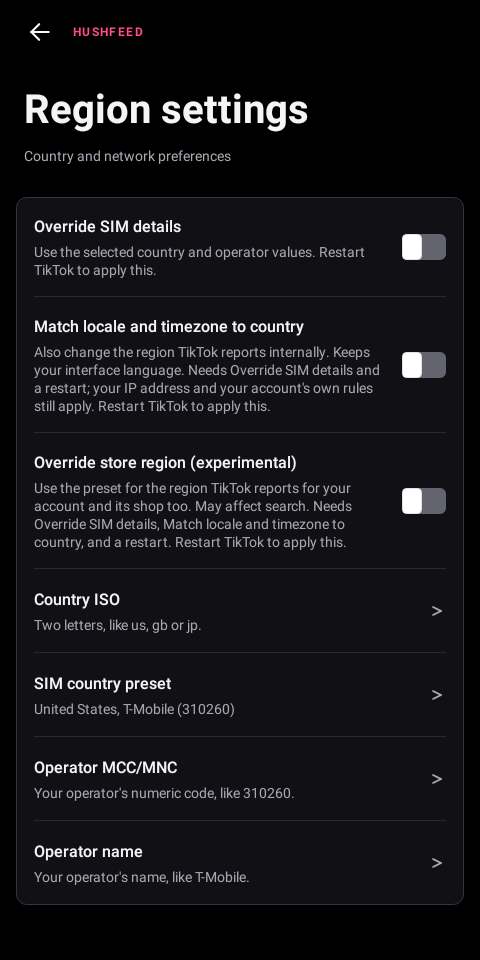
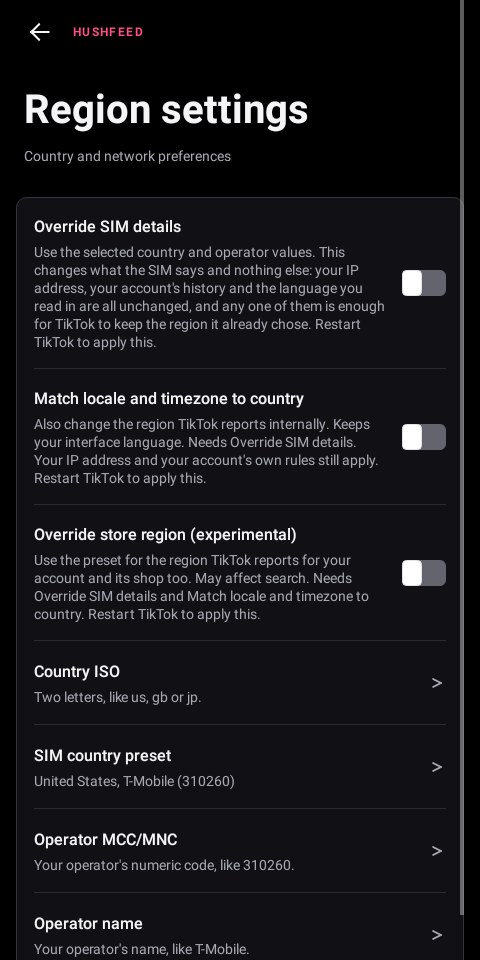
fix(l10n): stop the Region rows asking for a restart twice
The note is appended to any restart-gated summary that does not already ask for
one, and the check was the literal "Restart TikTok". Both Region rows say "and a
restart" in their own words, so the check missed them and the sentence landed a
second time, in all five languages: the join happens after the summary is
translated, so no table could have caught it.

Two changes, because either alone leaves half of it standing. The check now
matches the word rather than one spelling of the sentence, so a summary that
asks in any wording is left alone. And the two summaries drop "and a restart",
so the one canonical sentence carries it and the rows read as every other row
does. The four translations are rewritten with them.

RestartGatedRowsTest already walked every page for rows that say nothing; it now
walks the same rows for ones that say it twice. Its "says so" half reads the
word out of the summary itself rather than asking the production predicate,
which would have passed for a predicate that always answered yes. Putting the
narrow check and the old summaries back fails both new cases.

diff --git a/extensions/tiktok/src/main/java/app/morphe/extension/tiktok/settings/L10nTranslations.java b/extensions/tiktok/src/main/java/app/morphe/extension/tiktok/settings/L10nTranslations.java
@@ -229,8 +229,8 @@ public final class L10nTranslations {
                 "Bereits als „nicht interessiert“ markiert");
         table.put("Also apply these filters to downloaded videos TikTok uses when the feed cannot load enough new items.",
                 "Diese Filter auch auf heruntergeladene Videos anwenden, die TikTok nutzt, wenn der Feed nicht genug neue Beiträge laden kann.");
-        table.put("Also change the region TikTok reports internally. Keeps your interface language. Needs Override SIM details and a restart; your IP address and your account's own rules still apply.",
-                "Ändert außerdem die Region, die TikTok intern meldet. Die Sprache der Oberfläche bleibt. Braucht SIM-Angaben überschreiben und einen Neustart; deine IP-Adresse und die Regeln deines Kontos gelten weiterhin.");
+        table.put("Also change the region TikTok reports internally. Keeps your interface language. Needs Override SIM details. Your IP address and your account's own rules still apply.",
+                "Ändert außerdem die Region, die TikTok intern meldet. Die Sprache der Oberfläche bleibt. Braucht SIM-Angaben überschreiben. Deine IP-Adresse und die Regeln deines Kontos gelten weiterhin.");
         table.put("Always show publish date",
                 "Veröffentlichungsdatum immer anzeigen");
         table.put("Always show the publish date in video author information. Restart TikTok to apply this.",
@@ -1971,8 +1971,8 @@ public final class L10nTranslations {
                 "Standardgeschwindigkeit verwenden");
         table.put("Use non-personalized search",
                 "Nicht personalisierte Suche verwenden");
-        table.put("Use the preset for the region TikTok reports for your account and its shop too. May affect search. Needs Override SIM details, Match locale and timezone to country, and a restart.",
-                "Die Vorlage auch für die Region verwenden, die TikTok für dein Konto und seinen Shop meldet. Kann die Suche beeinflussen. Braucht SIM-Details überschreiben, Sprache und Zeitzone ans Land anpassen und einen Neustart.");
+        table.put("Use the preset for the region TikTok reports for your account and its shop too. May affect search. Needs Override SIM details and Match locale and timezone to country.",
+                "Die Vorlage auch für die Region verwenden, die TikTok für dein Konto und seinen Shop meldet. Kann die Suche beeinflussen. Braucht SIM-Details überschreiben und Sprache und Zeitzone ans Land anpassen.");
         table.put("Use the selected country and operator values. This changes what the SIM says and nothing else: your IP address, your account's history and the language you read in are all unchanged, and any one of them is enough for TikTok to keep the region it already chose. Restart TikTok to apply this.",
                 "Das gewählte Land und die Anbieterwerte verwenden. Das ändert nur, was die SIM meldet: deine IP-Adresse, der Verlauf deines Kontos und die Sprache, in der du liest, bleiben gleich, und eines davon reicht TikTok schon, um bei der bisherigen Region zu bleiben. TikTok neu starten, damit das gilt.");
         table.put("Use the selected country. This changes what the SIM says and nothing else: your IP address, your account's history and the language you read in are all unchanged, and any one of them is enough for TikTok to keep the region it already chose. Restart TikTok to apply this.",
@@ -2280,8 +2280,8 @@ public final class L10nTranslations {
                 "Ya marcado como no me interesa");
         table.put("Also apply these filters to downloaded videos TikTok uses when the feed cannot load enough new items.",
                 "Aplicar también estos filtros a los vídeos descargados que TikTok usa cuando el feed no consigue cargar suficientes elementos nuevos.");
-        table.put("Also change the region TikTok reports internally. Keeps your interface language. Needs Override SIM details and a restart; your IP address and your account's own rules still apply.",
-                "Cambia también la región que TikTok informa internamente. Mantiene el idioma de la interfaz. Necesita Sustituir los datos de la SIM y reiniciar; tu dirección IP y las reglas de tu cuenta siguen aplicándose.");
+        table.put("Also change the region TikTok reports internally. Keeps your interface language. Needs Override SIM details. Your IP address and your account's own rules still apply.",
+                "Cambia también la región que TikTok informa internamente. Mantiene el idioma de la interfaz. Necesita Sustituir los datos de la SIM. Tu dirección IP y las reglas de tu cuenta siguen aplicándose.");
         table.put("Always show publish date",
                 "Mostrar siempre la fecha de publicación");
         table.put("Always show the publish date in video author information. Restart TikTok to apply this.",
@@ -4022,8 +4022,8 @@ public final class L10nTranslations {
                 "Usar una velocidad de reproducción predeterminada");
         table.put("Use non-personalized search",
                 "Usar la búsqueda sin personalizar");
-        table.put("Use the preset for the region TikTok reports for your account and its shop too. May affect search. Needs Override SIM details, Match locale and timezone to country, and a restart.",
-                "Usar el preajuste también para la región que TikTok informa de tu cuenta y su tienda. Puede afectar a la búsqueda. Necesita Sustituir los datos de la SIM, Ajustar idioma y zona horaria al país, y un reinicio.");
+        table.put("Use the preset for the region TikTok reports for your account and its shop too. May affect search. Needs Override SIM details and Match locale and timezone to country.",
+                "Usar el preajuste también para la región que TikTok informa de tu cuenta y su tienda. Puede afectar a la búsqueda. Necesita Sustituir los datos de la SIM y Ajustar idioma y zona horaria al país.");
         table.put("Use the selected country and operator values. This changes what the SIM says and nothing else: your IP address, your account's history and the language you read in are all unchanged, and any one of them is enough for TikTok to keep the region it already chose. Restart TikTok to apply this.",
                 "Usar el país y los valores de operador seleccionados. Esto solo cambia lo que dice la SIM: tu dirección IP, el historial de tu cuenta y el idioma en el que lees siguen igual, y con cualquiera de ellos le basta a TikTok para mantener la región que ya eligió. Reinicia TikTok para que se aplique.");
         table.put("Use the selected country. This changes what the SIM says and nothing else: your IP address, your account's history and the language you read in are all unchanged, and any one of them is enough for TikTok to keep the region it already chose. Restart TikTok to apply this.",
@@ -4331,8 +4331,8 @@ public final class L10nTranslations {
                 "Sudah ditandai sebagai tidak tertarik");
         table.put("Also apply these filters to downloaded videos TikTok uses when the feed cannot load enough new items.",
                 "Terapkan filter ini juga ke video terunduh yang TikTok pakai saat feed tidak bisa memuat cukup konten baru.");
-        table.put("Also change the region TikTok reports internally. Keeps your interface language. Needs Override SIM details and a restart; your IP address and your account's own rules still apply.",
-                "Juga mengubah wilayah yang dilaporkan TikTok secara internal. Bahasa antarmuka tetap. Perlu Timpa detail SIM dan mulai ulang; alamat IP dan aturan akun Anda tetap berlaku.");
+        table.put("Also change the region TikTok reports internally. Keeps your interface language. Needs Override SIM details. Your IP address and your account's own rules still apply.",
+                "Juga mengubah wilayah yang dilaporkan TikTok secara internal. Bahasa antarmuka tetap. Perlu Timpa detail SIM. Alamat IP dan aturan akun Anda tetap berlaku.");
         table.put("Always show publish date",
                 "Selalu tampilkan tanggal unggah");
         table.put("Always show the publish date in video author information. Restart TikTok to apply this.",
@@ -6073,8 +6073,8 @@ public final class L10nTranslations {
                 "Pakai kecepatan pemutaran bawaan");
         table.put("Use non-personalized search",
                 "Pakai pencarian nonpersonal");
-        table.put("Use the preset for the region TikTok reports for your account and its shop too. May affect search. Needs Override SIM details, Match locale and timezone to country, and a restart.",
-                "Gunakan preset juga untuk wilayah yang dilaporkan TikTok untuk akun Anda dan tokonya. Bisa memengaruhi pencarian. Perlu Ganti detail SIM, Sesuaikan bahasa dan zona waktu dengan negara, dan mulai ulang.");
+        table.put("Use the preset for the region TikTok reports for your account and its shop too. May affect search. Needs Override SIM details and Match locale and timezone to country.",
+                "Gunakan preset juga untuk wilayah yang dilaporkan TikTok untuk akun Anda dan tokonya. Bisa memengaruhi pencarian. Perlu Ganti detail SIM dan Sesuaikan bahasa dan zona waktu dengan negara.");
         table.put("Use the selected country and operator values. This changes what the SIM says and nothing else: your IP address, your account's history and the language you read in are all unchanged, and any one of them is enough for TikTok to keep the region it already chose. Restart TikTok to apply this.",
                 "Gunakan negara dan nilai operator yang dipilih. Ini hanya mengubah apa yang dilaporkan SIM: alamat IP, riwayat akun, dan bahasa yang kamu baca tetap sama, dan salah satunya saja sudah cukup bagi TikTok untuk mempertahankan wilayah yang sudah dipilihnya. Mulai ulang TikTok agar berlaku.");
         table.put("Use the selected country. This changes what the SIM says and nothing else: your IP address, your account's history and the language you read in are all unchanged, and any one of them is enough for TikTok to keep the region it already chose. Restart TikTok to apply this.",
@@ -6382,8 +6382,8 @@ public final class L10nTranslations {
                 "Já marcado como não tenho interesse");
         table.put("Also apply these filters to downloaded videos TikTok uses when the feed cannot load enough new items.",
                 "Aplicar esses filtros também aos vídeos baixados que o TikTok usa quando o feed não consegue carregar itens novos suficientes.");
-        table.put("Also change the region TikTok reports internally. Keeps your interface language. Needs Override SIM details and a restart; your IP address and your account's own rules still apply.",
-                "Também muda a região que o TikTok informa internamente. Mantém o idioma da interface. Precisa de Substituir os dados do SIM e de reiniciar; seu endereço IP e as regras da sua conta continuam valendo.");
+        table.put("Also change the region TikTok reports internally. Keeps your interface language. Needs Override SIM details. Your IP address and your account's own rules still apply.",
+                "Também muda a região que o TikTok informa internamente. Mantém o idioma da interface. Precisa de Substituir os dados do SIM. Seu endereço IP e as regras da sua conta continuam valendo.");
         table.put("Always show publish date",
                 "Sempre mostrar a data de publicação");
         table.put("Always show the publish date in video author information. Restart TikTok to apply this.",
@@ -8124,8 +8124,8 @@ public final class L10nTranslations {
                 "Usar uma velocidade de reprodução padrão");
         table.put("Use non-personalized search",
                 "Usar a busca sem personalização");
-        table.put("Use the preset for the region TikTok reports for your account and its shop too. May affect search. Needs Override SIM details, Match locale and timezone to country, and a restart.",
-                "Usar a predefinição também para a região que o TikTok informa para a sua conta e a loja dela. Pode afetar a busca. Precisa de Substituir os dados do chip, Ajustar idioma e fuso horário ao país, e de um reinício.");
+        table.put("Use the preset for the region TikTok reports for your account and its shop too. May affect search. Needs Override SIM details and Match locale and timezone to country.",
+                "Usar a predefinição também para a região que o TikTok informa para a sua conta e a loja dela. Pode afetar a busca. Precisa de Substituir os dados do chip e Ajustar idioma e fuso horário ao país.");
         table.put("Use the selected country and operator values. This changes what the SIM says and nothing else: your IP address, your account's history and the language you read in are all unchanged, and any one of them is enough for TikTok to keep the region it already chose. Restart TikTok to apply this.",
                 "Usar o país e os valores de operadora selecionados. Isso muda só o que o SIM informa: seu endereço IP, o histórico da sua conta e o idioma em que você lê continuam os mesmos, e qualquer um deles já basta para o TikTok manter a região que já escolheu. Reinicie o TikTok para aplicar.");
         table.put("Use the selected country. This changes what the SIM says and nothing else: your IP address, your account's history and the language you read in are all unchanged, and any one of them is enough for TikTok to keep the region it already chose. Restart TikTok to apply this.",

diff --git a/extensions/tiktok/src/test/java/app/morphe/extension/tiktok/settings/preference/RestartGatedRowsTest.java b/extensions/tiktok/src/test/java/app/morphe/extension/tiktok/settings/preference/RestartGatedRowsTest.java
@@ -106,7 +106,10 @@ public class RestartGatedRowsTest {
                 if (setting == null || !setting.rebootApp) continue;
                 gated++;
                 CharSequence summary = row.getSummary();
-                if (summary == null || !summary.toString().contains(TogglePreference.RESTART_MARKER)) {
+                // Its own literal rather than the production predicate: a predicate that always
+                // answered yes would leave every row silent and still pass a test that asked it.
+                if (summary == null
+                        || !summary.toString().toLowerCase(java.util.Locale.ROOT).contains("restart")) {
                     silent.add(section + " / " + row.getClass().getSimpleName() + " " + row.getKey()
                             + ": " + summary);
                 }
@@ -116,6 +119,39 @@ public class RestartGatedRowsTest {
         assertTrue("the walk saw too few restart-gated rows to mean anything: " + gated, gated >= 40);
         assertTrue("rows whose setting needs a restart and whose summary does not say so:\n"
                 + String.join("\n", silent), silent.isEmpty());
+    }
+
+    /**
+     * And no row says it twice.
+     *
+     * <p>The other half of the same walk. The sentence is appended to any summary that does not
+     * already ask for a restart, so a summary that asks in its own words used to collect a second
+     * copy: both Region rows shipped "and a restart. Restart TikTok to apply this." in every
+     * language, because the join happens after the summary is translated.
+     */
+    @Test public void noRowAsksForARestartTwice() {
+        List<String> doubled = new ArrayList<>();
+        for (String section : SECTIONS) {
+            TikTokPreferenceFragment page = attach(section);
+            for (Preference row : rows(page.getPreferenceScreen(), new ArrayList<>())) {
+                CharSequence summary = row.getSummary();
+                if (summary == null) continue;
+                String text = summary.toString();
+                int first = text.indexOf(TogglePreference.RESTART_SENTENCE);
+                if (first >= 0 && text.indexOf(TogglePreference.RESTART_SENTENCE, first + 1) >= 0) {
+                    doubled.add(section + " / " + row.getKey() + ": " + text);
+                    continue;
+                }
+                // The shape the two Region rows had: their own wording, then the sentence.
+                if (first > 0 && text.substring(0, first)
+                        .toLowerCase(java.util.Locale.ROOT).contains("restart")) {
+                    doubled.add(section + " / " + row.getKey() + ": " + text);
+                }
+            }
+        }
+
+        assertTrue("rows that ask for a restart twice:\n" + String.join("\n", doubled),
+                doubled.isEmpty());
     }
 
     private static List<Preference> rows(PreferenceGroup group, List<Preference> into) {

diff --git a/extensions/tiktok/src/main/java/app/morphe/extension/tiktok/settings/preference/TogglePreference.java b/extensions/tiktok/src/main/java/app/morphe/extension/tiktok/settings/preference/TogglePreference.java
@@ -14,6 +14,8 @@ import app.morphe.extension.shared.settings.BooleanSetting;
 import app.morphe.extension.shared.settings.Setting;
 import app.morphe.extension.tiktok.Utils;
 
+import java.util.regex.Pattern;
+
 @SuppressWarnings("deprecation")
 public class TogglePreference extends SwitchPreference {
 
@@ -27,8 +29,17 @@ public class TogglePreference extends SwitchPreference {
      */
     public static final String RESTART_SENTENCE = "Restart TikTok to apply this.";
 
-    /** What an existing summary already says in its own words, so it is not said twice. */
-    static final String RESTART_MARKER = "Restart TikTok";
+    /**
+     * A summary that already asks for a restart, in whatever words it chose.
+     *
+     * <p>This was the literal "Restart TikTok". Two Region summaries said "and a restart"
+     * instead, so the check missed them and both rows shipped the sentence twice, in all five
+     * languages, because the join happens after translation. Matched on the word rather than on
+     * one spelling of it, and against the English, which is the key, so a translation that words
+     * it differently cannot fool this either way.
+     */
+    private static final Pattern SAYS_RESTART =
+            Pattern.compile("\\brestart", Pattern.CASE_INSENSITIVE);
 
     public TogglePreference(Context context, String title, String summary, BooleanSetting setting) {
         super(context);
@@ -63,9 +74,7 @@ public class TogglePreference extends SwitchPreference {
         // which works but reads as though the join were a phrase of its own.
         String translated = L10n.t(context, summary);
         if (setting == null || !setting.rebootApp) return translated;
-        // Against the English, which is the key, so a translation that words it differently
-        // cannot fool this into leaving the note off.
-        if (summary.contains(RESTART_MARKER)) return translated;
+        if (SAYS_RESTART.matcher(summary).find()) return translated;
 
         String note = L10n.t(context, RESTART_SENTENCE);
         String body = translated.trim();

diff --git a/extensions/tiktok/src/test/java/app/morphe/extension/tiktok/settings/preference/RestartNoteTest.java b/extensions/tiktok/src/test/java/app/morphe/extension/tiktok/settings/preference/RestartNoteTest.java
@@ -77,6 +77,33 @@ public class RestartNoteTest {
     }
 
     /**
+     * A summary that asks for a restart in its own words is left alone too.
+     *
+     * <p>The check was the literal "Restart TikTok", and the two Region rows say "and a restart",
+     * so both shipped the sentence twice in all five languages: the join happens after the
+     * summary is translated, so no table could have caught it.
+     */
+    @Test public void aSummaryThatAsksForARestartInItsOwnWordsIsLeftAlone() {
+        TogglePreference row = new TogglePreference(context, "Some switch",
+                "What this switch does. Needs Override SIM details and a restart.",
+                setting("restart_note_own_words", true));
+
+        assertEquals("a summary that already asks for a restart was told to restart again",
+                "What this switch does. Needs Override SIM details and a restart.",
+                row.getSummary().toString());
+    }
+
+    /** Restarting is the word, not a word inside another one: "restarted" counts, "start" does not. */
+    @Test public void aSummaryThatMerelyStartsSomethingStillGetsTheSentence() {
+        TogglePreference row = new TogglePreference(context, "Some switch",
+                "Start the feed paused.", setting("restart_note_start", true));
+
+        assertTrue("a summary about starting was read as one about restarting: "
+                        + row.getSummary(),
+                row.getSummary().toString().contains("Restart TikTok to apply this."));
+    }
+
+    /**
      * The mutation control. Reading the flag is what decides this, so a row built from a setting
      * whose flag is off must not pick the sentence up from anywhere else.
      */

diff --git a/extensions/tiktok/src/main/java/app/morphe/extension/tiktok/settings/preference/categories/SimSpoofPreferenceCategory.java b/extensions/tiktok/src/main/java/app/morphe/extension/tiktok/settings/preference/categories/SimSpoofPreferenceCategory.java
@@ -49,9 +49,9 @@ public class SimSpoofPreferenceCategory extends ConditionalPreferenceCategory {
         ));
         if (SettingsStatus.regionSpoofEnabled) {
             addPreference(new TogglePreference(context, "Match locale and timezone to country",
-                    "Also change the region TikTok reports internally. Keeps your interface language. Needs Override SIM details and a restart; your IP address and your account's own rules still apply.", Settings.REGION_SPOOF));
+                    "Also change the region TikTok reports internally. Keeps your interface language. Needs Override SIM details. Your IP address and your account's own rules still apply.", Settings.REGION_SPOOF));
             addPreference(new TogglePreference(context, "Override store region (experimental)",
-                    "Use the preset for the region TikTok reports for your account and its shop too. May affect search. Needs Override SIM details, Match locale and timezone to country, and a restart.", Settings.REGION_STORE_SPOOF));
+                    "Use the preset for the region TikTok reports for your account and its shop too. May affect search. Needs Override SIM details and Match locale and timezone to country.", Settings.REGION_STORE_SPOOF));
         }
         InputTextPreference countryIsoPreference = new InputTextPreference(
                 context,
